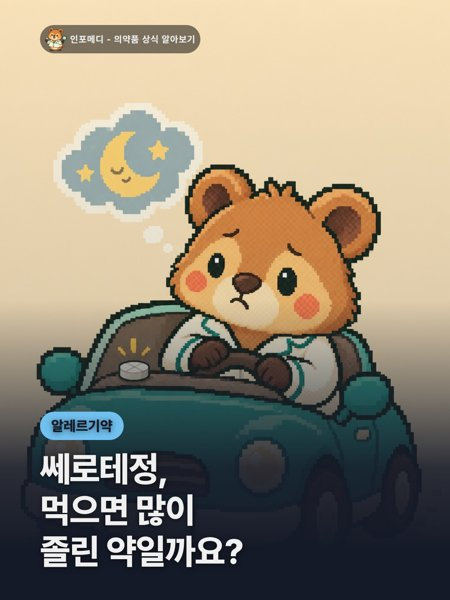
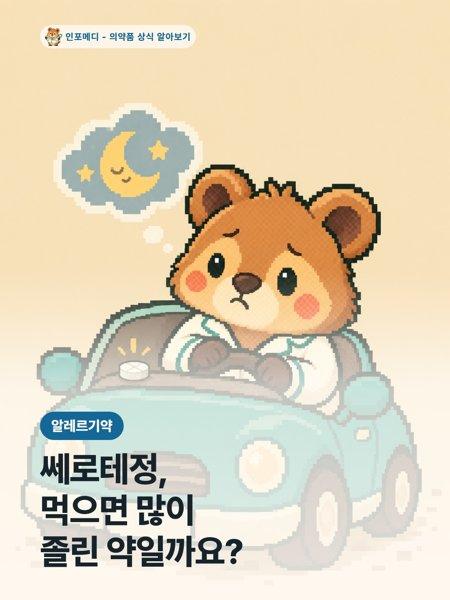
links

diff --git a/index.html b/index.html
@@ -34,7 +34,7 @@
 <section class="section">
 <h2>의약품 정보 <small id="count"></small></h2>
 <div class="grid" id="list">
-<a class="item" href="https://blog.naver.com/info_medi_/224428925775"><img src="c/쎄로테정-white.jpg" alt="" loading="lazy">
+<a class="item" href="https://blog.naver.com/info_medi_/224428925775"><img src="c/쎄로테정.jpg" alt="" loading="lazy">
 <span><b>쎄로테정, 먹으면 많이 졸린 약일까요?</b><small><time datetime="2026-10-12 19:39"></time></small></span></a>
 <a class="item" href="https://blog.naver.com/info_medi_/224423450083"><img src="c/멜라킹.jpg" alt="" loading="lazy">
 <span><b>멜라킹, 어떤 불면증에 쓰는 약일까요?</b><small><time datetime="2026-10-12 10:43"></time></small></span></a>
